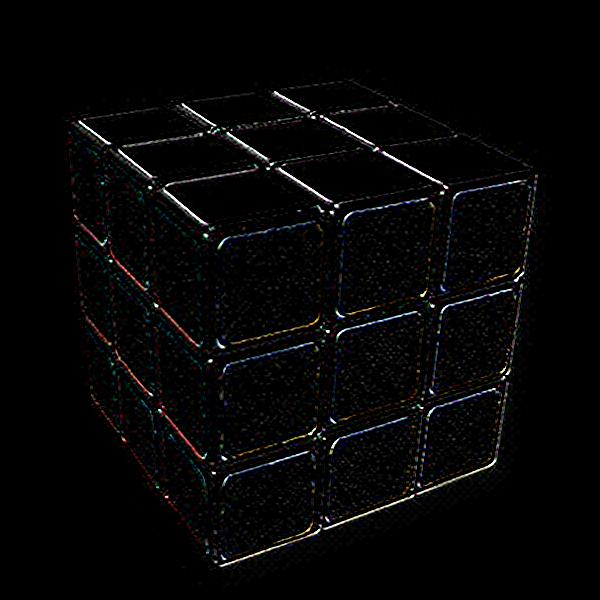
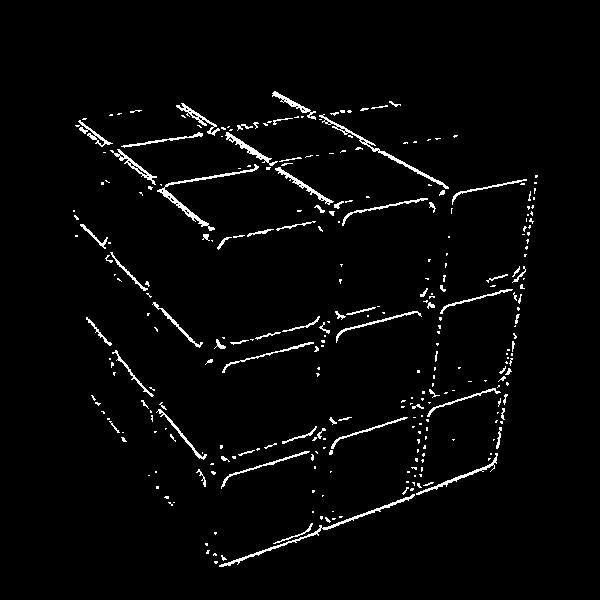
Gradient edge detection

diff --git a/2_feature_extraction/2.1_edge_detection/gradient_ed.py b/2_feature_extraction/2.1_edge_detection/gradient_ed.py
@@ -1,6 +1,26 @@
 import numpy as np
 import cv2
 
+def to_greyscale (pixel_grid):
+    new_grid = []
+
+    for row in pixel_grid:
+        new_grid.append([])
+        for pixel in row:
+            new_grid[-1].append(0.299*pixel[0] + 0.587*pixel[1] + 0.114*pixel[2])
+
+    return np.array(new_grid)
+
+def neighbors (grid, row, col):
+    ret = []
+    directions = [(-1, -1), (-1, 0), (-1, 1), (0, -1), (0, 1), (-1, 1), (-1, 0), (-1, 1)]
+    
+    for dy, dx in directions:
+        if 0 <= row+dy < len(grid) and 0 <= col+dx < len(grid[0]):
+            ret.append(grid[row+dy][col+dx])
+    
+    return ret
+
 kernels = {
     "prewitt": (
         np.array([
@@ -41,13 +61,45 @@ kernels = {
             [-2, -3, -5, -3, -2],
             [-1, -2, -3, -2, -1]
         ])
+    ),
+    "scharr": (
+        np.array([
+            [-3, 0, 3],
+            [-10, 0, 10],
+            [-3, 0, 3]
+        ]),
+        np.array([
+            [3, -10, -3],
+            [0, 0, 0],
+            [3, 10, 3]
+        ])
     )
 }
 
-def edges (pixel_grid, kernel_name="sobel_3x3"):
+def edges (pixel_grid, l_thresh=60, h_thresh=160, kernel_name="sobel_3x3"):
     kernel_x, kernel_y = kernels[kernel_name]
 
     filtered = cv2.filter2D(pixel_grid, -1, kernel_x)
-    filtered = cv2.filter2D(filtered, -1, kernel_y)
+    filtered = to_greyscale(cv2.filter2D(filtered, -1, kernel_y))
+
+
+    for row in range(len(filtered)):
+        for col in range(len(filtered[row])):
+            if filtered[row][col] >= h_thresh:
+                filtered[row][col] = 1
+            elif filtered[row][col] >= l_thresh:
+                filtered[row][col] = 0.5
+            else:
+                filtered[row][col] = 0
+    
+    for row in range(len(filtered)):
+        for col in range(len(filtered[row])):
+            if filtered[row][col] == 0.5:
+                if 1 in neighbors(filtered, row, col):
+                    filtered[row][col] = 1
+                else:
+                    filtered[row][col] = 0
+    
+    filtered *= 255
 
     return filtered

diff --git a/2_feature_extraction/2.1_edge_detection/main.py b/2_feature_extraction/2.1_edge_detection/main.py
@@ -3,15 +3,7 @@ import numpy as np
 import sys
 import gradient_ed
 
-def to_greyscale (pixel_grid):
-    new_grid = []
 
-    for row in pixel_grid:
-        new_grid.append([])
-        for pixel in row:
-            new_grid[-1].append(0.299*pixel[0] + 0.587*pixel[1] + 0.114*pixel[2])
-
-    return np.array(new_grid)
                  
 
 if len(sys.argv) > 2:
@@ -25,9 +17,8 @@ else:
 
 img = Image.open(src_path).convert("RGB")
 pixel_grid = np.array(img)
-# pixel_grid = to_greyscale(pixel_grid)
 
-edges = gradient_ed.edges(pixel_grid, "prewitt")
+edges = gradient_ed.edges(pixel_grid)
 
 newimg = Image.fromarray(edges.astype(np.uint8))
 newimg.save(dest_path)
